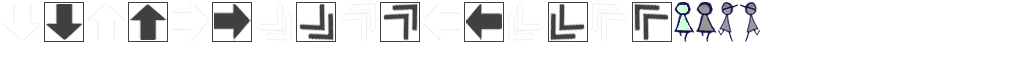
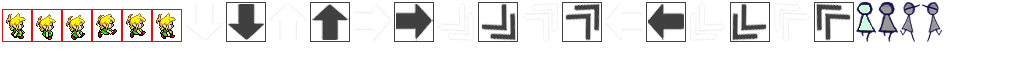
tentando adicionar animacao

Changed region(s): [[0.375, 0.0312, 0.75, 0.6562], [0.0, 0.0312, 0.3438, 0.6562], [0.7812, 0.0312, 0.9375, 0.6562]]

diff --git a/core/src/prs/mecanica/fase/telas/jogo/atores/jogador/SpriteManager.java b/core/src/prs/mecanica/fase/telas/jogo/atores/jogador/SpriteManager.java
@@ -1,6 +1,8 @@
 package prs.mecanica.fase.telas.jogo.atores.jogador;
 
+import com.badlogic.gdx.graphics.g2d.Animation;
 import com.badlogic.gdx.graphics.g2d.Sprite;
+import com.badlogic.gdx.graphics.g2d.TextureRegion;
 import com.badlogic.gdx.math.Rectangle;
 import com.badlogic.gdx.utils.Array;
 
@@ -22,6 +24,10 @@ public class SpriteManager implements ControleSprite{
     private final Sprite spriteDir;
     private final Array<Sprite> arraySprites;
 
+    private TextureRegion caminhada;
+    private Animation<TextureRegion> animation;
+
+
     public SpriteManager() {
         ImgLeitor imgLeitor = ImgLeitor.getInstance();
         this.spriteCima = imgLeitor.getImg (Imagens.PERSONAGEM_CIMA);
@@ -34,7 +40,12 @@ public class SpriteManager implements ControleSprite{
 
         configurarSprites();
         configurarCamposTamanhoSprite();
-    }
+
+        caminhada = imgLeitor.getImg(Imagens.CAMINHADA_DIREITA);
+        TextureRegion[] regions = TextureRegion.split(caminhada.getTexture(), 30, 33)[0];
+        animation = new Animation<TextureRegion>(0.15f, regions);
+        animation.setPlayMode(Animation.PlayMode.LOOP_PINGPONG);
+     }
 
     public Sprite getSprite(Direcoes direcao){
         switch (direcao){

diff --git a/core/src/prs/mecanica/fase/telas/jogo/comuns/imagens/Imagens.java b/core/src/prs/mecanica/fase/telas/jogo/comuns/imagens/Imagens.java
@@ -23,7 +23,9 @@ public enum Imagens {
     BTN_DIR_SUP_D("btn_direitasuperior_d"),
     BTN_DIR_INF_D("btn_direitainferior_d"),
     BTN_ESQ_SUP_D("btn_esquerdasuperior_d"),
-    BTN_ESQ_INF_D("btn_esquerdainferior_d");
+    BTN_ESQ_INF_D("btn_esquerdainferior_d"),
+
+    CAMINHADA_DIREITA("andando_direita");
 
     private String nomeArquivo;
 

diff --git a/core/src/prs/mecanica/fase/telas/jogo/comuns/MyCamera.java b/core/src/prs/mecanica/fase/telas/jogo/comuns/MyCamera.java
@@ -99,7 +99,6 @@ public class MyCamera implements TipoAtualizavel, ViewPortUser {
             else if((jogador.getPosY()  + jogador.getHaltura()) > ptYMaior){
                 this.camera.translate(0, (jogador.getPosY()  + jogador.getHaltura()) - ptYMaior, 0);
             }
-
         }
         atualizar();
     }
